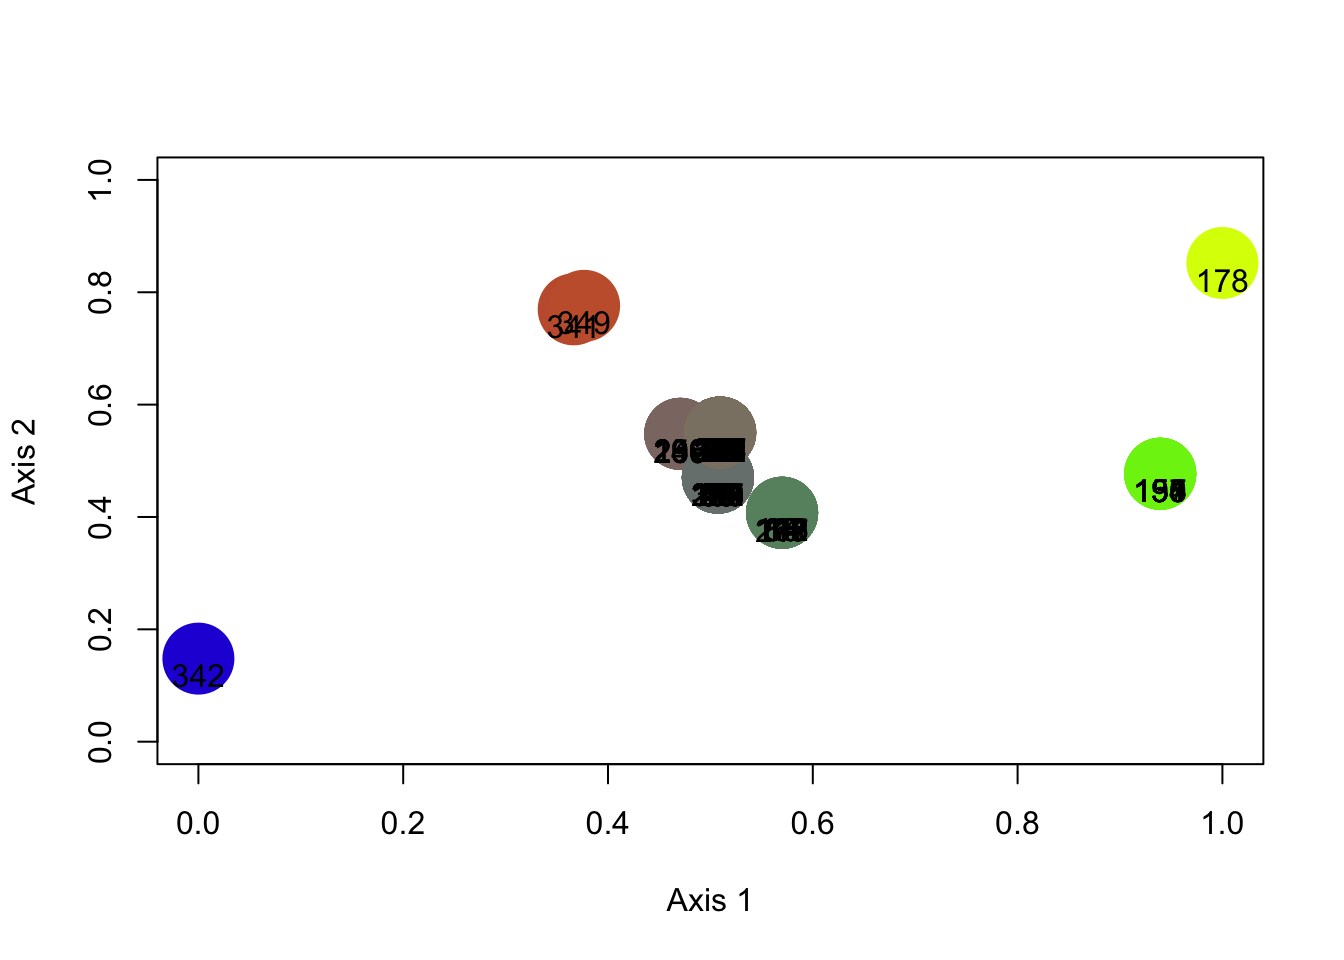
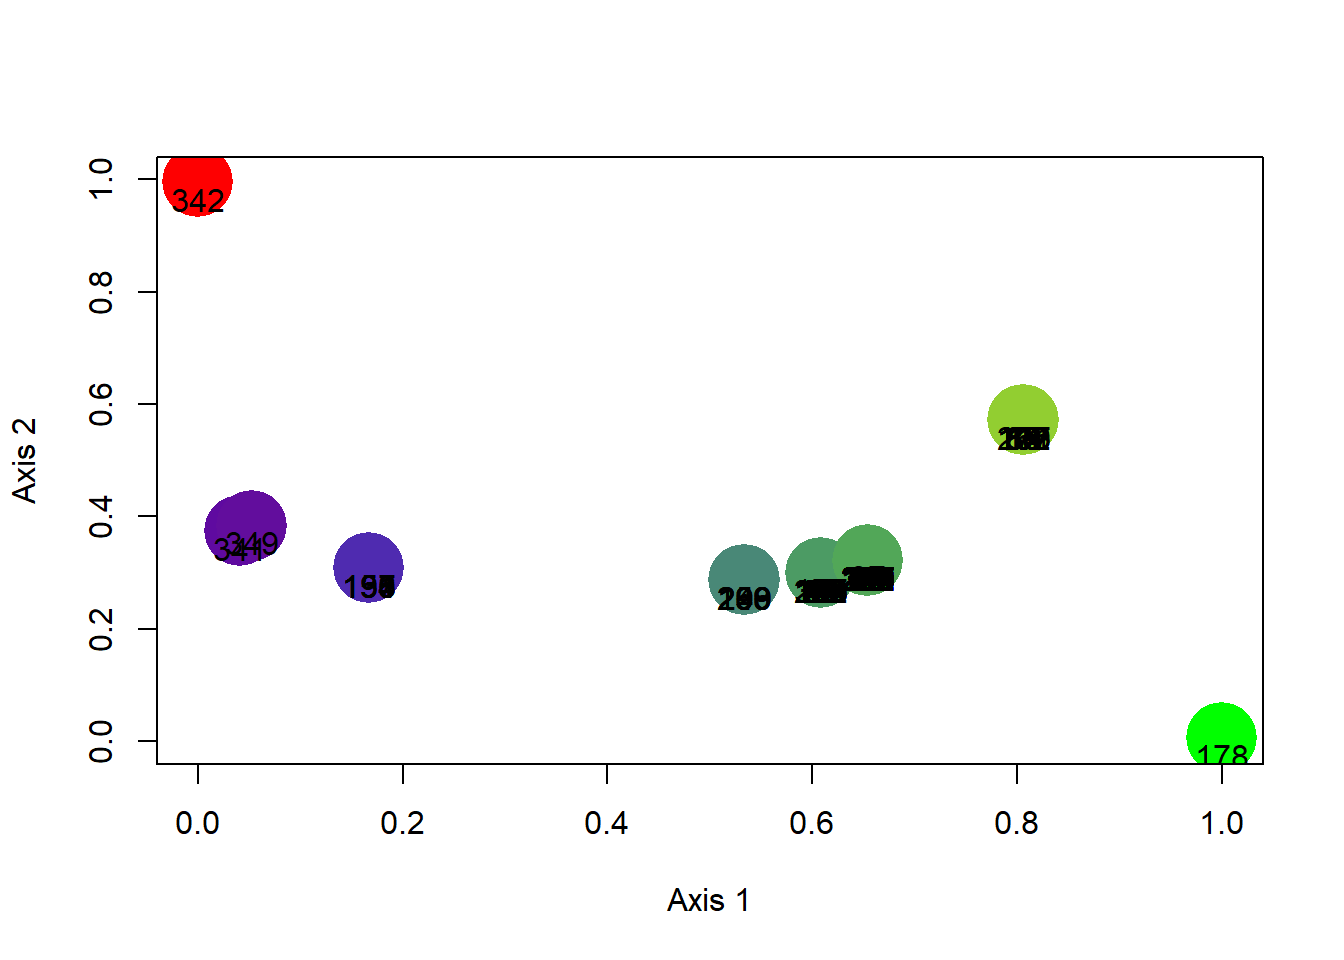
atividade 3

diff --git a/atividade_3.html b/atividade_3.html
@@ -480,11 +480,30 @@ div.tocify {
 body {
 text-align: justify}
 </style>
-<div id="atividade-3" class="section level1 unnumbered">
-<h1 class="unnumbered">Atividade 3</h1>
+<div id="atividade-3---parte-1" class="section level1 unnumbered">
+<h1 class="unnumbered">Atividade 3 - Parte 1</h1>
 <p><br></br></p>
-<div id="dados-de-peixes-recifais" class="section level2" number="0.1">
-<h2><span class="header-section-number">3.1</span> Dados de peixes
+<div id="redes-de-interações" class="section level2" number="3.1">
+<h2><span class="header-section-number">3.1</span> Redes de
+interações</h2>
+<p>A análise de redes ecológicas é uma metodologia para analisar
+holisticamente as interações ecológicas e outros. Estes modelos,
+normalmente, representam uma partição do ambiente de estudo e devem ser
+minimamente detalhadas. Assim, a construção das redes visa incluir todos
+os compartimentos e interações ecológicas de interesse e, a análise dos
+componentes da rede, determina as relações gerais com métricas globais,
+mas também permite avaliar individualmente o importância de seus
+componentes (Prouxl et al. 2005).</p>
+<p>Os dados e código necessários a execução desta atividade estão
+disponíveis no Classroom da disciplina.</p>
+<p><br></br></p>
+</div>
+</div>
+<div id="atividade-3---parte-2" class="section level1 unnumbered">
+<h1 class="unnumbered">Atividade 3 - Parte 2</h1>
+<p><br></br></p>
+<div id="dados-de-peixes-recifais" class="section level2" number="3.2">
+<h2><span class="header-section-number">3.2</span> Dados de peixes
 recifais</h2>
 <p>Para a atividade 4, partiremos dos primeiros passos da atividade 1,
 mas com algumas modificações na escala do mapa (global desta vez). Para
@@ -497,7 +516,7 @@ tal, bastar realizar estes primeiros passos rodando este
 <span id="cb1-5"><a href="#cb1-5" aria-hidden="true" tabindex="-1"></a><span class="co"># Importanto o shapefile</span></span>
 <span id="cb1-6"><a href="#cb1-6" aria-hidden="true" tabindex="-1"></a>borb <span class="ot">&lt;-</span> rgdal<span class="sc">::</span><span class="fu">readOGR</span>(<span class="at">dsn =</span> <span class="st">&quot;data/Chaetodontidae_NewWorld.shp&quot;</span>)</span></code></pre></div>
 <pre><code>## OGR data source with driver: ESRI Shapefile 
-## Source: &quot;/Users/cesarcordeiro/git/macroecologia-UENF_2022/data/Chaetodontidae_NewWorld.shp&quot;, layer: &quot;Chaetodontidae_NewWorld&quot;
+## Source: &quot;C:\Users\costao\Documents\git\macroecologia-UENF_2022\data\Chaetodontidae_NewWorld.shp&quot;, layer: &quot;Chaetodontidae_NewWorld&quot;
 ## with 29 features
 ## It has 27 fields
 ## Integer64 fields read as strings:  id_no</code></pre>
@@ -513,8 +532,8 @@ tal, bastar realizar estes primeiros passos rodando este
 <span id="cb4-4"><a href="#cb4-4" aria-hidden="true" tabindex="-1"></a><span class="fu">library</span>(rgdal)</span>
 <span id="cb4-5"><a href="#cb4-5" aria-hidden="true" tabindex="-1"></a><span class="fu">library</span>(vegan)</span></code></pre></div>
 <div id="barreiras-biogeograficas" class="section level3"
-number="0.1.1">
-<h3><span class="header-section-number">3.1.1</span> Barreiras
+number="3.2.1">
+<h3><span class="header-section-number">3.2.1</span> Barreiras
 biogeograficas</h3>
 <div class="sourceCode" id="cb5"><pre class="sourceCode r"><code class="sourceCode r"><span id="cb5-1"><a href="#cb5-1" aria-hidden="true" tabindex="-1"></a><span class="co">#criar uma tabela com dados de presenca/ausencia das especies</span></span>
 <span id="cb5-2"><a href="#cb5-2" aria-hidden="true" tabindex="-1"></a>pa <span class="ot">&lt;-</span><span class="fu">as.data.frame</span>(borb_maps<span class="sc">$</span>Presence_and_Absence_Matrix[,<span class="sc">-</span><span class="fu">c</span>(<span class="dv">1</span><span class="sc">:</span><span class="dv">2</span>)])</span>
@@ -544,19 +563,19 @@ biogeograficas</h3>
 <span id="cb8-3"><a href="#cb8-3" aria-hidden="true" tabindex="-1"></a></span>
 <span id="cb8-4"><a href="#cb8-4" aria-hidden="true" tabindex="-1"></a>points <span class="ot">&lt;-</span> vegan<span class="sc">::</span><span class="fu">metaMDS</span>(beta.sim, <span class="at">k=</span><span class="dv">2</span>, <span class="at">autotransform=</span>F, <span class="at">trymax=</span><span class="dv">5</span>)<span class="sc">$</span>points</span></code></pre></div>
 <pre><code>## Run 0 stress 0.000621963 
-## Run 1 stress 0.0003799572 
+## Run 1 stress 0.0003885992 
 ## ... New best solution
-## ... Procrustes: rmse 0.04672703  max resid 0.1716446 
-## Run 2 stress 0.0005227159 
-## ... Procrustes: rmse 0.04425947  max resid 0.1838224 
-## Run 3 stress 0.0004978659 
-## ... Procrustes: rmse 0.03864805  max resid 0.2807707 
-## Run 4 stress 0.0006408195 
-## ... Procrustes: rmse 0.05039006  max resid 0.4413699 
-## Run 5 stress 0.0004080444 
-## ... Procrustes: rmse 0.05120458  max resid 0.4908674 
+## ... Procrustes: rmse 0.04991498  max resid 0.1113541 
+## Run 2 stress 0.001094173 
+## Run 3 stress 0.0004328997 
+## ... Procrustes: rmse 0.05104042  max resid 0.4939086 
+## Run 4 stress 0.0005443188 
+## ... Procrustes: rmse 0.05107915  max resid 0.4481473 
+## Run 5 stress 0.0004147922 
+## ... Procrustes: rmse 0.04857868  max resid 0.3375494 
 ## *** No convergence -- monoMDS stopping criteria:
-##      5: scale factor of the gradient &lt; sfgrmin</code></pre>
+##      2: no. of iterations &gt;= maxit
+##      3: scale factor of the gradient &lt; sfgrmin</code></pre>
 <div class="sourceCode" id="cb10"><pre class="sourceCode r"><code class="sourceCode r"><span id="cb10-1"><a href="#cb10-1" aria-hidden="true" tabindex="-1"></a><span class="co">#Atribuindo cores de acordo com a composicao de especies (escala RedGreenBlue)</span></span>
 <span id="cb10-2"><a href="#cb10-2" aria-hidden="true" tabindex="-1"></a><span class="fu">library</span>(recluster)</span>
 <span id="cb10-3"><a href="#cb10-3" aria-hidden="true" tabindex="-1"></a></span>
@@ -577,12 +596,17 @@ biogeograficas</h3>
 <p><img src="atividade_3_files/figure-html/unnamed-chunk-7-1.png" width="672" /></p>
 </div>
 </div>
-<div id="bibliography" class="section level2" number="0.2">
-<h2><span class="header-section-number">3.2</span> Bibliography</h2>
+<div id="bibliography" class="section level2" number="3.3">
+<h2><span class="header-section-number">3.3</span> Bibliography</h2>
+<p>Autores: Murilo S. Dias, Juan P. Quimbayo, Thiago Mendes, Mariana
+Bender, Augusto Flores. Adaptado por: Cesar Cordeiro</p>
 <ul>
-<li>Vilela B, Villalobos F (2015) letsR: A new r package for data
+<li><p>Vilela B, Villalobos F (2015) letsR: A new r package for data
 handling and analysis in macroecology. Methods in Ecology and Evolution,
-6, 1229–1234.</li>
+6, 1229–1234.</p></li>
+<li><p>Proulx SR, Promislow DEL, Phillips PC (2005) Network thinking in
+ecology and evolution. Trends in Ecology and Evolution, 20 (6): 345-353.
+DOI: 10.1016/j.tree.2005.04.004</p></li>
 </ul>
 </div>
 </div>
